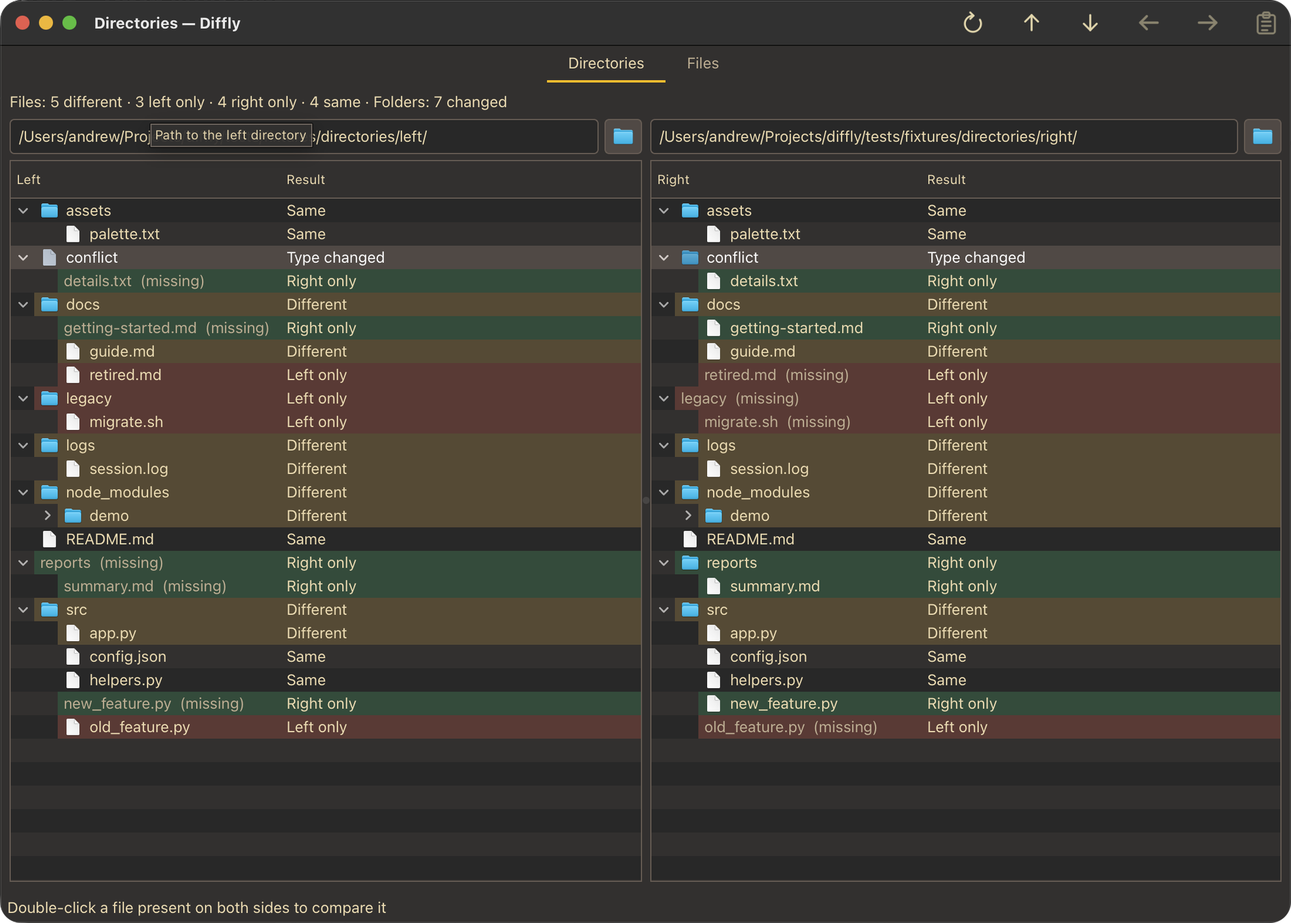
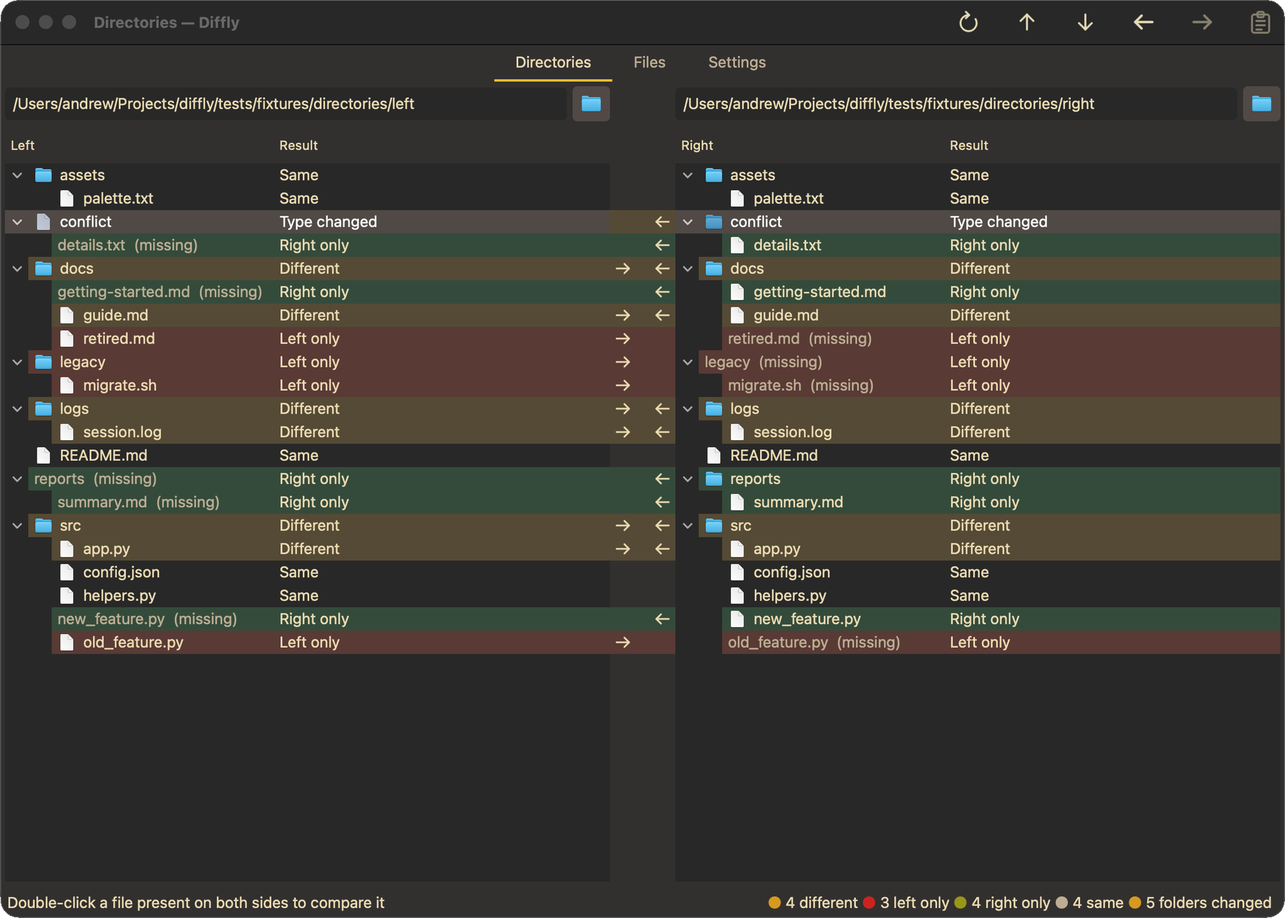
Redesign README, add user guide and MIT license (#6)
Shorten the README to a project overview with features, install, the
macOS app build and common usage. Move the detailed documentation
verbatim into docs/guide.md.

Refresh the screenshots, cropped to the window frame with a transparent
background. The file comparison now shows the Python fixtures, so
diffly-json.png becomes diffly-python.png.

diff --git a/README.md b/README.md
@@ -1,37 +1,55 @@
-# <img src="scripts/icon.svg" width="48" height="48" alt="" align="absmiddle"> Diffly
+<div align="center">
 
-<a href="docs/images/diffly-json.png"><img src="docs/images/diffly-json.png" alt="Diffly comparing two JSON files" width="600"></a>
+<img src="scripts/icon.svg" width="96" height="96" alt="Diffly icon">
 
-Comparing the [JSON example files](tests/fixtures/diff/README.md).
+# Diffly
 
-<a href="docs/images/diffly-directories.png"><img src="docs/images/diffly-directories.png" alt="Diffly comparing two directories" width="600"></a>
+**A responsive desktop app for comparing, editing and merging text files and directories.**
 
-Comparing the [example directories](tests/fixtures/directories/README.md).
+![macOS and Linux](https://img.shields.io/badge/platform-macOS%20%7C%20Linux-informational)
+![Python 3.11+](https://img.shields.io/badge/python-3.11%2B-3776AB?logo=python&logoColor=white)
+![Qt 6](https://img.shields.io/badge/UI-Qt%206-41CD52?logo=qt&logoColor=white)
+[![MIT License](https://img.shields.io/badge/license-MIT-blue)](LICENSE)
 
-Diffly is a text comparison and file merge editor for macOS and Linux. The two-pane comparison is described in [SPEC.md](SPEC.md).
+[Features](#features) •
+[Install](#install) •
+[macOS app](#build-the-macos-app) •
+[Usage](#usage) •
+[User guide](docs/guide.md)
 
-## Run
+<a href="docs/images/diffly-python.png"><img src="docs/images/diffly-python.png" alt="Diffly comparing two Python files" width="800"></a>
 
-Requires Python 3.11 or newer.
+</div>
 
-To install Diffly as a command available outside this repository, use `uv` from the repository root:
+## Features
+
+- **Side-by-side editing.** Both panes are editable, with aligned lines, changed text highlighted inside each line, and a colored overview of the whole file.
+- **Move changes in one click.** Apply a block in either direction, replacing the other side or appending to it, with full Undo.
+- **Three-way merge.** Separate changes merge automatically, and conflicts are resolved one by one. Works as a Git mergetool.
+- **Directory comparison.** Side-by-side trees compared by content, with file and folder copying. Respects `.gitignore` and custom masks.
+- **Syntax highlighting.** Python, JavaScript, TypeScript, Go, Rust, JSON, SQL, Markdown and more.
+- **Careful with your files.** Keeps the detected encoding, BOM and line endings. A failed save leaves the original untouched.
+- **Comparison rules.** Optionally ignore trailing whitespace, all whitespace or letter case.
+- **Yours to configure.** Four built-in themes, TOML configuration, and saved and recent comparisons.
+
+<a href="docs/images/diffly-directories.png"><img src="docs/images/diffly-directories.png" alt="Diffly comparing two directories" width="800"></a>
+
+## Install
+
+Diffly has no prebuilt releases yet, so you install it from source. You need Python 3.11 or newer, and [uv](https://docs.astral.sh/uv/) for the commands below.
 
 ```sh
+git clone https://github.com/gandriyko/diffly.git
+cd diffly
 uv tool install --python 3.12 .
 diffly
 ```
 
 `uv` keeps Diffly and its dependencies in a dedicated environment instead of installing them into the system Python. If `diffly` is not found, run `uv tool update-shell` and open a new terminal. After changing the source code, run `uv tool install --reinstall --python 3.12 .` to update the installed copy.
 
-For development, create a virtual environment in the repository instead:
+### Build the macOS app
 
-```sh
-python3 -m venv .venv
-.venv/bin/python -m pip install -e .
-.venv/bin/diffly
-```
-
-To build a macOS app that can launch from Applications:
+You can build a standalone `Diffly.app` that launches from Applications like any other Mac app:
 
 ```sh
 scripts/build-macos-app.sh                    # build dist/Diffly.app only
@@ -39,25 +57,20 @@ scripts/build-macos-app.sh --install          # also replace /Applications/Diffl
 scripts/build-macos-app.sh --install --open   # install and launch it
 ```
 
-Without `--install`, drag `Diffly.app` from the `dist` folder into Applications in Finder. The build includes Python, Qt, and the bundled theme configuration, so the `.app` does not depend on this repository or its virtual environment. Run the build again after code changes and replace the copy in Applications. The app is built for the current Mac's CPU architecture and is signed locally; distributing it to other Macs requires Developer ID signing and notarization.
+Without `--install`, drag `Diffly.app` from the `dist` folder into Applications in Finder. The build includes Python, Qt, and the bundled theme configuration, so the `.app` does not depend on this repository or its virtual environment. Run the build again after code changes and replace the copy in Applications.
 
-Open one or two files directly from the command line:
+The app is built for the current Mac's CPU architecture and is signed locally; distributing it to other Macs requires Developer ID signing and notarization.
 
-```sh
-.venv/bin/diffly left.txt right.txt
-.venv/bin/diffly left.txt
-```
-
-Relative paths are resolved from the current working directory. The first file opens in the left pane and the optional second file opens in the right pane. Run `diffly --help` for usage.
-
-To merge three versions of one text file, run:
+## Usage
 
 ```sh
-.venv/bin/diffly --merge base.txt left.txt right.txt
-.venv/bin/diffly --merge base.txt left.txt right.txt --output result.txt
+diffly                                  # open the app
+diffly left.txt right.txt               # compare two files
+diffly --directories left_dir right_dir # compare two directories
+diffly --merge base.txt left.txt right.txt --output result.txt  # three-way merge
 ```
 
-To use Diffly as a Git mergetool, install the `diffly` command on your `PATH` and configure Git:
+### Use as a Git mergetool
 
 ```sh
 git config --global merge.tool diffly
@@ -65,56 +78,19 @@ git config --global mergetool.diffly.cmd 'diffly --merge "$BASE" "$LOCAL" "$REMO
 git config --global mergetool.diffly.trustExitCode true
 ```
 
-After a conflicting `git merge`, run `git mergetool --tool=diffly`. Git passes the common BASE (which may be empty), the current branch as LOCAL, the incoming branch as REMOTE, and the working-tree file as MERGED. Diffly waits for the window to close. When the existing MERGED text differs from the generated merge, choose whether to open that existing text or start a fresh merge; the existing file is not changed until Save. **File → Recreate Merge Result** switches from the existing text to Diffly's three-way result. Git receives success only after the result is saved to MERGED, all conflicts are marked resolved, and the file remains unchanged through closing. Closing without completing these steps reports failure to Git. A direct `diffly` process is required so Git can wait for its exit; launching the app with a detached `open -a` command will not provide that status.
+After a conflicting `git merge`, run `git mergetool --tool=diffly`. Git needs the `diffly` command on your `PATH`, because a detached `open -a` launch of the app cannot report the result back to Git.
 
-The **Merge** tab appears only for `--merge`. It places read-only Left and Right beside an editable Result in the center. Separate changes merge automatically; competing changes initially show Left's text in Result with a highlighted unresolved region. Base remains available through **Edit → Use Base**. Result does not insert conflict marker lines. An arrow beside a changed block copies that side's text into Result; both gutter arrows for that block disappear after application and return on Undo. The gutters use the same curved, theme-colored connection bands as the Files tab. The icon toolbar reloads the sources, navigates conflicts, chooses Left, Right, or Base for the selected conflict, and marks an edited conflict resolved. Clicking inside a conflict selects it. **Command+Option+Down/Up** on macOS (**Ctrl+Alt+Down/Up** on Linux), or **F7** and **Shift+F7**, navigate conflicts; **Command+Option+1/2/3** (**Ctrl+Alt+1/2/3**) select Left, Right, or Base, and **Command+Option+0** (**Ctrl+Alt+0**) marks an edited conflict resolved. Result starts in memory. **File → Save Result** offers a sibling of Left named `<stem>.merged<suffix>` by default; `--output` selects a path without writing it on launch. Saving with unresolved conflicts asks for confirmation. Result inherits Left's encoding, BOM, and newline style; its encoding menu is in the status bar. **File → Recreate Result** and **File → Reload Merge Sources** ask before discarding edits. Merge sessions store paths only, so reopening recomputes the merge when started with `--merge`.
+### Keyboard shortcuts
 
-Open a file into each pane with **File → Open Left/Right** (**Cmd/Ctrl+O** and **Cmd/Ctrl+Shift+O**). Edit either pane independently. Colored rows show differences, and stronger color marks changed text within replaced lines. Click a changed row or navigate with the toolbar to select a diff block, then apply it with the toolbar or delete it from the Edit menu. Each action is one Undo operation in its destination editor (**Cmd/Ctrl+Z**; redo with **Cmd/Ctrl+Shift+Z**). **Cmd+S** on macOS (**Ctrl+S** on Linux) saves the active editor; **File → Save As…** also applies to that editor. A failed save leaves the original file untouched.
+| Action | macOS | Linux |
+|---|---|---|
+| Next / previous difference | <kbd>⌘</kbd> <kbd>⌥</kbd> <kbd>↓</kbd> / <kbd>↑</kbd> | <kbd>Ctrl</kbd> <kbd>Alt</kbd> <kbd>↓</kbd> / <kbd>↑</kbd> |
+| Apply selected difference | <kbd>⌘</kbd> <kbd>⌥</kbd> <kbd>←</kbd> / <kbd>→</kbd> | <kbd>Ctrl</kbd> <kbd>Alt</kbd> <kbd>←</kbd> / <kbd>→</kbd> |
+| Append instead of replacing | add <kbd>⇧</kbd> | add <kbd>Shift</kbd> |
+| Find / replace | <kbd>⌘</kbd> <kbd>F</kbd> / <kbd>H</kbd> | <kbd>Ctrl</kbd> <kbd>F</kbd> / <kbd>H</kbd> |
+| Save active editor | <kbd>⌘</kbd> <kbd>S</kbd> | <kbd>Ctrl</kbd> <kbd>S</kbd> |
 
-Use **Edit → Find…** (**Cmd/Ctrl+F**) or **Edit → Replace…** (**Cmd/Ctrl+H**) to open a compact panel above the footer. It searches only the current editor and follows the active pane if you switch editors. Use the arrow buttons, **F3** for the next match, or **Shift+F3** for the previous one. The panel also supports optional case matching, replacing one match, and replacing all matches in the current editor. Replace All is one Undo step. Search and replacement use literal text; close the panel with **Esc** or ×.
-
-Open the **Settings** tab directly or through **Settings → Open Settings** (**Cmd/Ctrl+,**). The page groups appearance, editor, file comparison, and directory filtering preferences. Changes apply immediately and are saved to the user TOML configuration. The line number and syntax highlighting switches apply to both Files and Merge; line numbers are off by default. File comparison can ignore trailing spaces and tabs, all spaces and tabs, or letter case when determining differences. These rules change which differences are shown; applying a block still copies its original text. A saved file comparison remembers its rules.
-
-Use **File → Save Comparison…** to name the current pair of files or directories. Reopen it from **Saved Comparisons**; **Recent Comparisons** keeps the last ten successful pairs and can be cleared. Saved comparisons can be removed from the menu. Diffly stores paths and comparison options, not file contents, in `sessions.json` beside the user configuration file. Reopening checks that both paths still exist and asks before discarding unsaved editor changes.
-
-The **Directories** tab opens first. Enter each directory path above its tree and press Enter to compare, or use the folder icons; choosing the second folder starts comparison automatically. The first toolbar button refreshes the comparison. The two trees show matching paths side by side: yellow marks different content or changed folders, red marks left-only items, and green marks right-only items. The footer shows colored counts for different, left-only, right-only, and matching files, plus changed folders. Files are compared by content, not only by timestamp. Use ↑/↓ in the toolbar to move among different files and ←/→ to copy the selected file or folder to the indicated side. For a selected folder, Diffly copies the entire tree, including hidden and ignored files, and replaces the destination folder completely; destination-only children are removed. Folder replacement always asks for confirmation. File copies also ask, with a **Don't ask again this session** option for later file copies. The trees rescan after copying. Double-click a file present on both sides to open the pair in the **Files** tab. Symbolic links are compared by their targets and are not followed.
-
-Open the directory comparison directly with `.venv/bin/diffly --directories left_dir right_dir`. A sample pair is available under `tests/fixtures/directories/`.
-
-In **Settings → Directory filtering**, add, edit, or remove custom masks. A mask without `/` matches a file or folder name at any depth, such as `*.log` or `node_modules`; a mask with `/` matches a path relative to the selected root, such as `build/*.tmp`. Ignored folders and everything inside them are skipped. Python caches, editor and temporary files, and build and dependency folders are filtered immediately by three built-in groups. Uncheck a group on the settings page to include its files. The initial custom-mask list is empty.
-
-By default, directory comparisons also read `.gitignore` files in each selected directory, nested directories, and parent directories up to the Git working-tree root. Outside a Git working tree, Diffly reads accessible parent `.gitignore` files. More specific files can override parent rules, including with `!` negation; an ignored folder remains pruned. Uncheck **Use .gitignore from selected and parent folders** on the settings page to compare those paths too. The choice, enabled preset groups, and custom masks are saved in the user TOML configuration as `use_gitignore`, `ignore_presets`, and `ignore_patterns`. Custom masks and enabled presets always exclude matching paths, including paths that a `.gitignore` rule would re-include.
-
-In the **Files** tab, Refresh reloads opened files from disk and compares them again; it asks before discarding unsaved edits. The toolbar also navigates between differences, applies the selected block in either direction, and pastes clipboard text into the active editor at its cursor. Hovering a toolbar button shows a border without changing the icon color. The large left and right arrows show the destination of each apply action. Recognized source and markup files show faint dotted indent guides every four spaces by default to trace nesting levels. Missing lines are shown as diagonally hatched spaces, aligning the following text without changing either file. A slightly wider colored diff overview at the far right replaces the visible vertical scrollbar. Click or drag its viewport marker to scroll both panes; the mouse wheel over either editor also scrolls them together. One horizontal scrollbar below both panes controls their horizontal offsets; horizontal trackpad gestures and Shift+wheel scroll both panes too. A shorter pane stops at its own right edge.
-
-On macOS, Diffly sets the native toolbar to the compact inline titlebar style. The editors use the full width of the window. The status bar shows deleted, added, changed, and identical line counts. The **Encoding** button shows the active pane's encoding. Its menu lists **Auto** and the available encodings. Choosing one reopens an existing file with that encoding; for an untitled pane it sets the encoding used when saving. Change tab stops and indent guides on the **Settings** page; the choice is saved in the user TOML config. A double-click on an empty part of the Qt toolbar toggles a maximized window without entering fullscreen. A double-click on the empty title area also toggles a maximized window without entering fullscreen.
-
-On Linux, Diffly draws its own title bar so the menu, diff toolbar, window title, and window controls share one row. Drag the title to move the window, double-click it to maximize or restore, and use the bottom-right size grip to resize.
-
-When run from a terminal, **Ctrl+C** closes Diffly through the usual unsaved-changes check.
-
-On macOS, press **Command+Option+Down** for the next difference and **Command+Option+Up** for the previous one. **Command+Option+Left/Right** applies the selected difference toward the arrow. Add **Shift** (**Command+Option+Shift+Left/Right**) to append the block below the destination block instead of replacing it; holding Shift while clicking a gutter or toolbar arrow does the same. On Linux, use **Ctrl+Alt** with the same arrow keys. Navigation moves the text cursor to the changed line in the active editor. **Command+Option+Delete** on macOS or **Ctrl+Alt+Delete** on Linux deletes the selected block from the active editor. Plain arrow and Delete keys retain their usual text-editing behavior inside an editor.
-
-The bundled [TOML configuration](src/diffly/config.toml) defines font size, tab width, initial comparison rules, the initial theme (Dark), and four themes: Gruvbox Dark, Dark, Light, and Solarized Dark. Choose a theme on the **Settings** page; Diffly saves that choice to the user TOML configuration. For other persistent overrides, create `~/.config/diffly/config.toml` with only the values you want to change, for example:
-
-```toml
-[settings]
-theme = "light"
-font_family = "Menlo"
-font_size = 14
-tab_width = 4
-indent_guide_width = 4
-ignore_trailing_whitespace = false
-ignore_whitespace = false
-ignore_case = false
-ignore_patterns = ["*.log", "node_modules"]
-use_gitignore = true
-ignore_presets = ["python", "temporary", "build"]
-```
-
-Set `DIFFLY_CONFIG` to use another TOML path. An empty `font_family` selects the system monospace font. Theme definitions in the override can replace individual colors under `[themes.<theme_id>]`.
-
-UTF-8 and Unicode BOMs are detected directly; other text encodings are detected with charset-normalizer. Short or ambiguous files may need an explicit choice from the **Encoding** menu. Diffly preserves the detected encoding, BOM, and line endings when saving an opened file. Syntax coloring through [Pygments](https://pygments.org/docs/lexers/) supports JSON, Python, JavaScript, TypeScript (`.ts`, `.tsx`), JSX, HTML, CSS, SCSS, XML/SVG, SQL, PHP, Go, Rust, Bash, YAML, TOML, Markdown, Dockerfile, Makefile, and INI-style files (`.ini`, `.cfg`, `.editorconfig`). Dockerfile variants (`Dockerfile.dev`), `GNUmakefile`, and `.mk` files are recognized by name or extension. Untitled buffers are detected from their first lines. Lexing runs in a separate process after a short debounce, and results are accepted only for the current document revision. Existing syntax and diff colors remain visible while new results are computed. Only changed syntax blocks are reformatted; cached colors follow line insertions and local edits. Syntax coloring is disabled above 2 MB while large-file editing remains a future phase. The current editor loads whole files; virtualized large-file editing and distributable packaging are later phases.
+The [user guide](docs/guide.md) covers every tab, shortcut and configuration option. Sample [files](tests/fixtures/diff/README.md) and [directories](tests/fixtures/directories/README.md) are included for trying Diffly out, and the design is described in [SPEC.md](SPEC.md).
 
 ## Development
 
@@ -124,11 +100,17 @@ To use the committed `uv.lock` for reproducible development dependencies:
 uv run --locked --extra dev pytest
 ```
 
-Alternatively, install the development dependencies with pip:
+Alternatively, use a virtual environment and pip:
 
 ```sh
+python3 -m venv .venv
 .venv/bin/python -m pip install -e '.[dev]'
+.venv/bin/diffly
 .venv/bin/python -m pytest
 ```
 
 Set `DIFFLY_NO_DIALOGS=1` for scripted or automated runs: modal dialogs are not shown, questions answer Yes, notices are printed to stderr and file pickers cancel. The test suite enables it in `tests/conftest.py`.
+
+## License
+
+Diffly is released under the [MIT License](LICENSE).

diff --git a/docs/guide.md b/docs/guide.md
@@ -1,0 +1,115 @@
+# Diffly User Guide
+
+Back to the [README](../README.md).
+
+- [Command line](#command-line)
+- [Comparing files](#comparing-files)
+- [Find and replace](#find-and-replace)
+- [Comparing directories](#comparing-directories)
+- [Three-way merge](#three-way-merge)
+- [Git mergetool](#git-mergetool)
+- [Saved comparisons](#saved-comparisons)
+- [Settings](#settings)
+- [Keyboard shortcuts](#keyboard-shortcuts)
+- [Platform notes](#platform-notes)
+- [Configuration](#configuration)
+- [Encodings and syntax highlighting](#encodings-and-syntax-highlighting)
+
+## Command line
+
+Open one or two files directly from the command line:
+
+```sh
+.venv/bin/diffly left.txt right.txt
+.venv/bin/diffly left.txt
+```
+
+Relative paths are resolved from the current working directory. The first file opens in the left pane and the optional second file opens in the right pane. Run `diffly --help` for usage.
+
+Open the directory comparison directly with `.venv/bin/diffly --directories left_dir right_dir`. A sample pair is available under `tests/fixtures/directories/`.
+
+## Comparing files
+
+Open a file into each pane with **File → Open Left/Right** (**Cmd/Ctrl+O** and **Cmd/Ctrl+Shift+O**). Edit either pane independently. Colored rows show differences, and stronger color marks changed text within replaced lines. Click a changed row or navigate with the toolbar to select a diff block, then apply it with the toolbar or delete it from the Edit menu. Each action is one Undo operation in its destination editor (**Cmd/Ctrl+Z**; redo with **Cmd/Ctrl+Shift+Z**). **Cmd+S** on macOS (**Ctrl+S** on Linux) saves the active editor; **File → Save As…** also applies to that editor. A failed save leaves the original file untouched.
+
+In the **Files** tab, Refresh reloads opened files from disk and compares them again; it asks before discarding unsaved edits. The toolbar also navigates between differences, applies the selected block in either direction, and pastes clipboard text into the active editor at its cursor. Hovering a toolbar button shows a border without changing the icon color. The large left and right arrows show the destination of each apply action. Recognized source and markup files show faint dotted indent guides every four spaces by default to trace nesting levels. Missing lines are shown as diagonally hatched spaces, aligning the following text without changing either file. A slightly wider colored diff overview at the far right replaces the visible vertical scrollbar. Click or drag its viewport marker to scroll both panes; the mouse wheel over either editor also scrolls them together. One horizontal scrollbar below both panes controls their horizontal offsets; horizontal trackpad gestures and Shift+wheel scroll both panes too. A shorter pane stops at its own right edge.
+
+## Find and replace
+
+Use **Edit → Find…** (**Cmd/Ctrl+F**) or **Edit → Replace…** (**Cmd/Ctrl+H**) to open a compact panel above the footer. It searches only the current editor and follows the active pane if you switch editors. Use the arrow buttons, **F3** for the next match, or **Shift+F3** for the previous one. The panel also supports optional case matching, replacing one match, and replacing all matches in the current editor. Replace All is one Undo step. Search and replacement use literal text; close the panel with **Esc** or ×.
+
+## Comparing directories
+
+The **Directories** tab opens first. Enter each directory path above its tree and press Enter to compare, or use the folder icons; choosing the second folder starts comparison automatically. The first toolbar button refreshes the comparison. The two trees show matching paths side by side: yellow marks different content or changed folders, red marks left-only items, and green marks right-only items. The footer shows colored counts for different, left-only, right-only, and matching files, plus changed folders. Files are compared by content, not only by timestamp. Use ↑/↓ in the toolbar to move among different files and ←/→ to copy the selected file or folder to the indicated side. For a selected folder, Diffly copies the entire tree, including hidden and ignored files, and replaces the destination folder completely; destination-only children are removed. Folder replacement always asks for confirmation. File copies also ask, with a **Don't ask again this session** option for later file copies. The trees rescan after copying. Double-click a file present on both sides to open the pair in the **Files** tab. Symbolic links are compared by their targets and are not followed.
+
+In **Settings → Directory filtering**, add, edit, or remove custom masks. A mask without `/` matches a file or folder name at any depth, such as `*.log` or `node_modules`; a mask with `/` matches a path relative to the selected root, such as `build/*.tmp`. Ignored folders and everything inside them are skipped. Python caches, editor and temporary files, and build and dependency folders are filtered immediately by three built-in groups. Uncheck a group on the settings page to include its files. The initial custom-mask list is empty.
+
+By default, directory comparisons also read `.gitignore` files in each selected directory, nested directories, and parent directories up to the Git working-tree root. Outside a Git working tree, Diffly reads accessible parent `.gitignore` files. More specific files can override parent rules, including with `!` negation; an ignored folder remains pruned. Uncheck **Use .gitignore from selected and parent folders** on the settings page to compare those paths too. The choice, enabled preset groups, and custom masks are saved in the user TOML configuration as `use_gitignore`, `ignore_presets`, and `ignore_patterns`. Custom masks and enabled presets always exclude matching paths, including paths that a `.gitignore` rule would re-include.
+
+## Three-way merge
+
+To merge three versions of one text file, run:
+
+```sh
+.venv/bin/diffly --merge base.txt left.txt right.txt
+.venv/bin/diffly --merge base.txt left.txt right.txt --output result.txt
+```
+
+The **Merge** tab appears only for `--merge`. It places read-only Left and Right beside an editable Result in the center. Separate changes merge automatically; competing changes initially show Left's text in Result with a highlighted unresolved region. Base remains available through **Edit → Use Base**. Result does not insert conflict marker lines. An arrow beside a changed block copies that side's text into Result; both gutter arrows for that block disappear after application and return on Undo. The gutters use the same curved, theme-colored connection bands as the Files tab. The icon toolbar reloads the sources, navigates conflicts, chooses Left, Right, or Base for the selected conflict, and marks an edited conflict resolved. Clicking inside a conflict selects it. **Command+Option+Down/Up** on macOS (**Ctrl+Alt+Down/Up** on Linux), or **F7** and **Shift+F7**, navigate conflicts; **Command+Option+1/2/3** (**Ctrl+Alt+1/2/3**) select Left, Right, or Base, and **Command+Option+0** (**Ctrl+Alt+0**) marks an edited conflict resolved. Result starts in memory. **File → Save Result** offers a sibling of Left named `<stem>.merged<suffix>` by default; `--output` selects a path without writing it on launch. Saving with unresolved conflicts asks for confirmation. Result inherits Left's encoding, BOM, and newline style; its encoding menu is in the status bar. **File → Recreate Result** and **File → Reload Merge Sources** ask before discarding edits. Merge sessions store paths only, so reopening recomputes the merge when started with `--merge`.
+
+## Git mergetool
+
+To use Diffly as a Git mergetool, install the `diffly` command on your `PATH` and configure Git:
+
+```sh
+git config --global merge.tool diffly
+git config --global mergetool.diffly.cmd 'diffly --merge "$BASE" "$LOCAL" "$REMOTE" --output "$MERGED"'
+git config --global mergetool.diffly.trustExitCode true
+```
+
+After a conflicting `git merge`, run `git mergetool --tool=diffly`. Git passes the common BASE (which may be empty), the current branch as LOCAL, the incoming branch as REMOTE, and the working-tree file as MERGED. Diffly waits for the window to close. When the existing MERGED text differs from the generated merge, choose whether to open that existing text or start a fresh merge; the existing file is not changed until Save. **File → Recreate Merge Result** switches from the existing text to Diffly's three-way result. Git receives success only after the result is saved to MERGED, all conflicts are marked resolved, and the file remains unchanged through closing. Closing without completing these steps reports failure to Git. A direct `diffly` process is required so Git can wait for its exit; launching the app with a detached `open -a` command will not provide that status.
+
+## Saved comparisons
+
+Use **File → Save Comparison…** to name the current pair of files or directories. Reopen it from **Saved Comparisons**; **Recent Comparisons** keeps the last ten successful pairs and can be cleared. Saved comparisons can be removed from the menu. Diffly stores paths and comparison options, not file contents, in `sessions.json` beside the user configuration file. Reopening checks that both paths still exist and asks before discarding unsaved editor changes.
+
+## Settings
+
+Open the **Settings** tab directly or through **Settings → Open Settings** (**Cmd/Ctrl+,**). The page groups appearance, editor, file comparison, and directory filtering preferences. Changes apply immediately and are saved to the user TOML configuration. The line number and syntax highlighting switches apply to both Files and Merge; line numbers are off by default. File comparison can ignore trailing spaces and tabs, all spaces and tabs, or letter case when determining differences. These rules change which differences are shown; applying a block still copies its original text. A saved file comparison remembers its rules.
+
+## Keyboard shortcuts
+
+On macOS, press **Command+Option+Down** for the next difference and **Command+Option+Up** for the previous one. **Command+Option+Left/Right** applies the selected difference toward the arrow. Add **Shift** (**Command+Option+Shift+Left/Right**) to append the block below the destination block instead of replacing it; holding Shift while clicking a gutter or toolbar arrow does the same. On Linux, use **Ctrl+Alt** with the same arrow keys. Navigation moves the text cursor to the changed line in the active editor. **Command+Option+Delete** on macOS or **Ctrl+Alt+Delete** on Linux deletes the selected block from the active editor. Plain arrow and Delete keys retain their usual text-editing behavior inside an editor.
+
+## Platform notes
+
+On macOS, Diffly sets the native toolbar to the compact inline titlebar style. The editors use the full width of the window. The status bar shows deleted, added, changed, and identical line counts. The **Encoding** button shows the active pane's encoding. Its menu lists **Auto** and the available encodings. Choosing one reopens an existing file with that encoding; for an untitled pane it sets the encoding used when saving. Change tab stops and indent guides on the **Settings** page; the choice is saved in the user TOML config. A double-click on an empty part of the Qt toolbar toggles a maximized window without entering fullscreen. A double-click on the empty title area also toggles a maximized window without entering fullscreen.
+
+On Linux, Diffly draws its own title bar so the menu, diff toolbar, window title, and window controls share one row. Drag the title to move the window, double-click it to maximize or restore, and use the bottom-right size grip to resize.
+
+When run from a terminal, **Ctrl+C** closes Diffly through the usual unsaved-changes check.
+
+## Configuration
+
+The bundled [TOML configuration](../src/diffly/config.toml) defines font size, tab width, initial comparison rules, the initial theme (Dark), and four themes: Gruvbox Dark, Dark, Light, and Solarized Dark. Choose a theme on the **Settings** page; Diffly saves that choice to the user TOML configuration. For other persistent overrides, create `~/.config/diffly/config.toml` with only the values you want to change, for example:
+
+```toml
+[settings]
+theme = "light"
+font_family = "Menlo"
+font_size = 14
+tab_width = 4
+indent_guide_width = 4
+ignore_trailing_whitespace = false
+ignore_whitespace = false
+ignore_case = false
+ignore_patterns = ["*.log", "node_modules"]
+use_gitignore = true
+ignore_presets = ["python", "temporary", "build"]
+```
+
+Set `DIFFLY_CONFIG` to use another TOML path. An empty `font_family` selects the system monospace font. Theme definitions in the override can replace individual colors under `[themes.<theme_id>]`.
+
+## Encodings and syntax highlighting
+
+UTF-8 and Unicode BOMs are detected directly; other text encodings are detected with charset-normalizer. Short or ambiguous files may need an explicit choice from the **Encoding** menu. Diffly preserves the detected encoding, BOM, and line endings when saving an opened file. Syntax coloring through [Pygments](https://pygments.org/docs/lexers/) supports JSON, Python, JavaScript, TypeScript (`.ts`, `.tsx`), JSX, HTML, CSS, SCSS, XML/SVG, SQL, PHP, Go, Rust, Bash, YAML, TOML, Markdown, Dockerfile, Makefile, and INI-style files (`.ini`, `.cfg`, `.editorconfig`). Dockerfile variants (`Dockerfile.dev`), `GNUmakefile`, and `.mk` files are recognized by name or extension. Untitled buffers are detected from their first lines. Lexing runs in a separate process after a short debounce, and results are accepted only for the current document revision. Existing syntax and diff colors remain visible while new results are computed. Only changed syntax blocks are reformatted; cached colors follow line insertions and local edits. Syntax coloring is disabled above 2 MB while large-file editing remains a future phase. The current editor loads whole files; virtualized large-file editing and distributable packaging are later phases.
